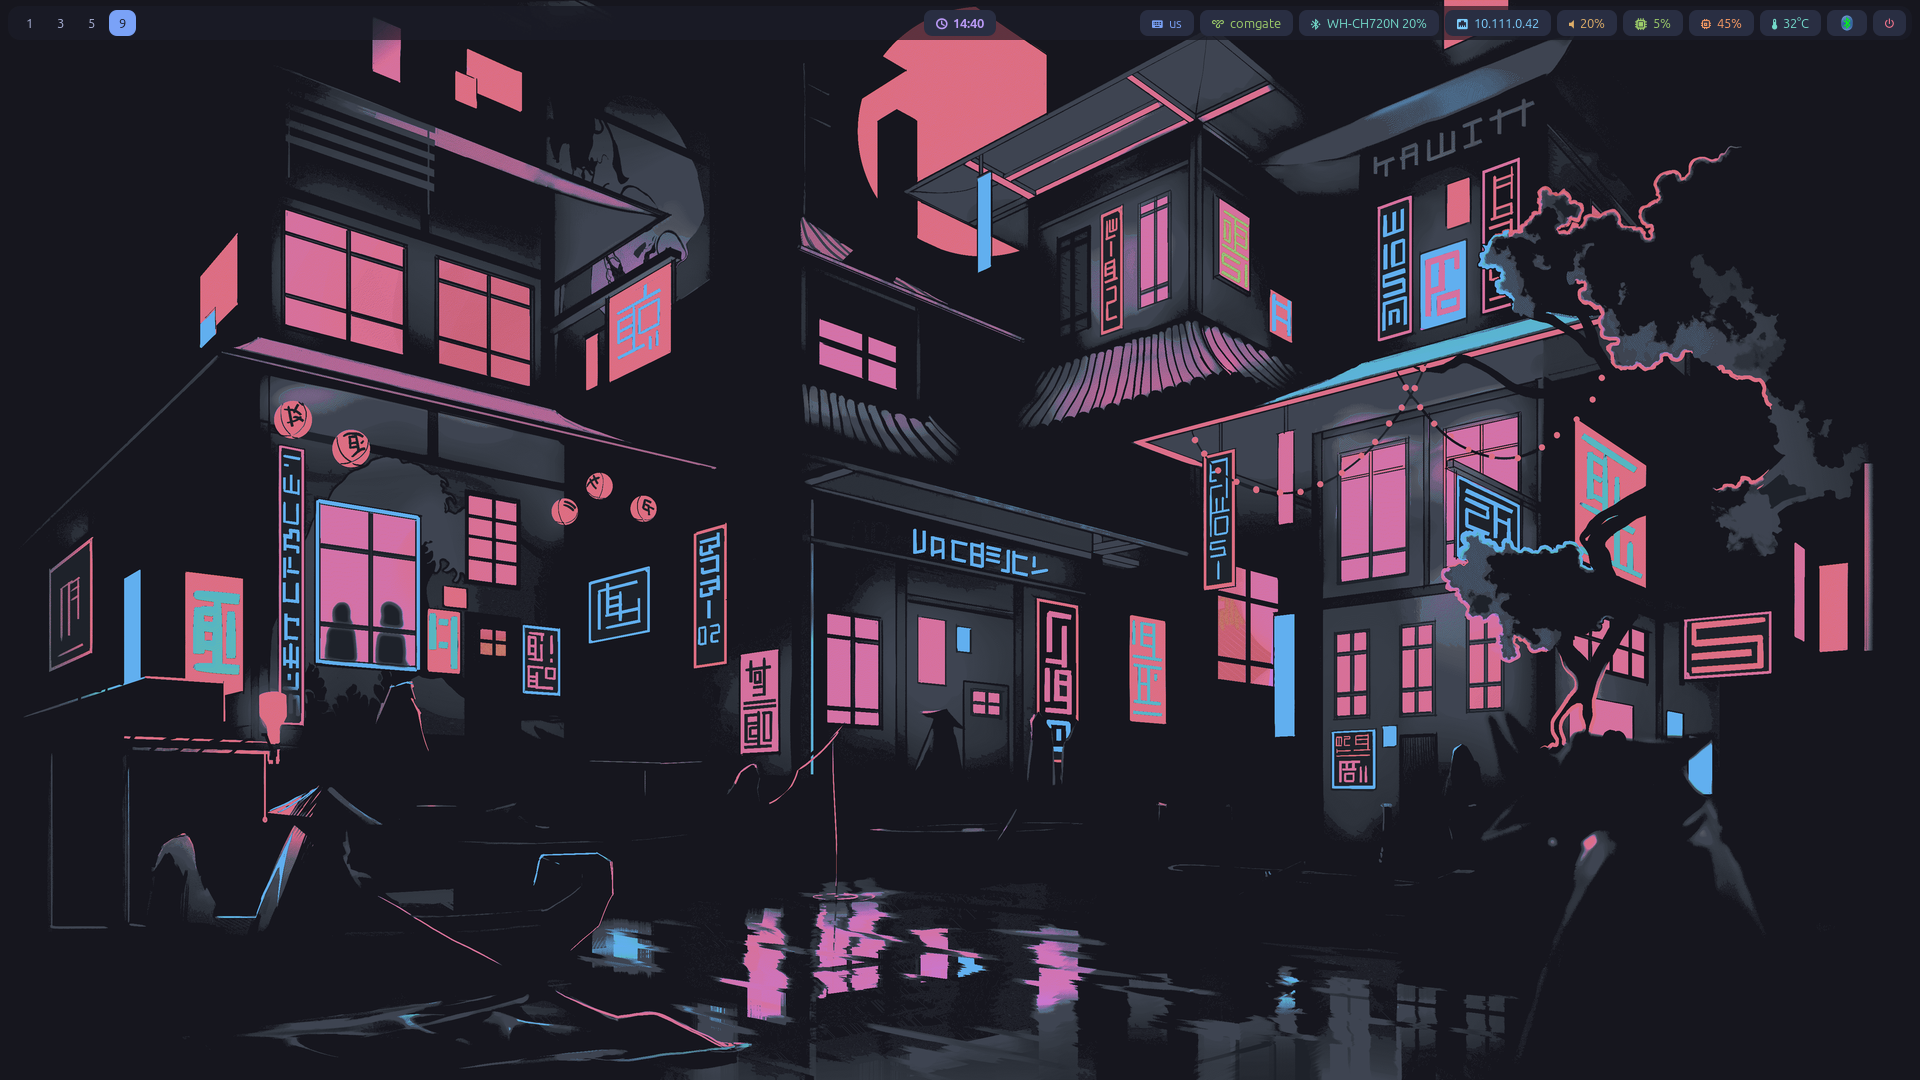
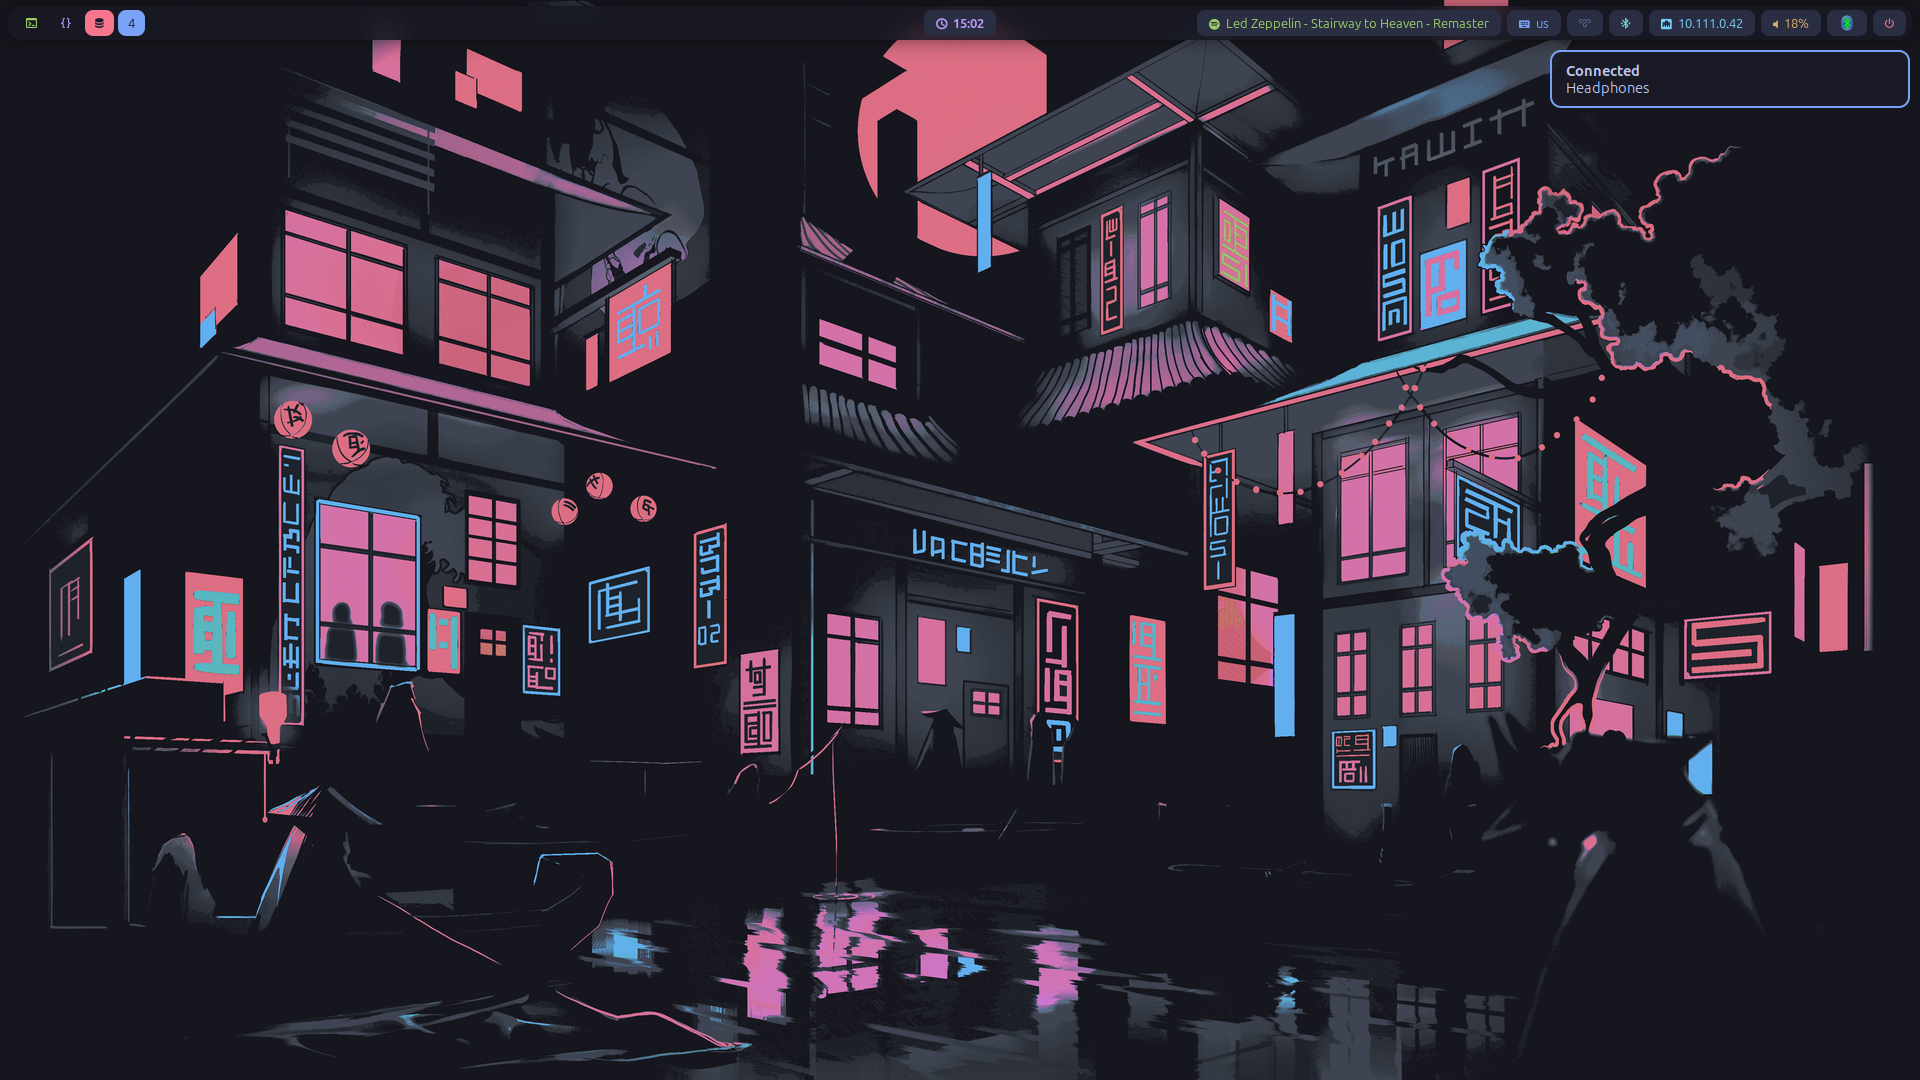
New README and screenshots

diff --git a/README.md b/README.md
@@ -1,12 +1,38 @@
-# sway Tokyo Night
+# sway-tokyo-night
 
-Tokyo Night theme for sway on Ubuntu: waybar, mako, fuzzel, foot, gtklock.
+![Tokyo Night sway desktop with a floating waybar and a mako notification](screenshots/desktop.png)
 
-![Desktop](screenshots/desktop.png)
-![Tiling](screenshots/tiling.png)
-![Launcher](screenshots/launcher.png)
+**Tokyo Night on sway for Ubuntu. Floating pill bar, every app themed, and each monitor gets its own workspace 1, 2, 3.**
+
+| | |
+|---|---|
+| **OS** | Ubuntu 26.04 |
+| **WM** | Sway 1.11 (screenshots taken on SwayFX, which is optional) |
+| **Bar** | waybar |
+| **Launcher / menus** | fuzzel |
+| **Terminal** | foot |
+| **Notifications** | mako |
+| **Lock screen** | gtklock (a themed swaylock config is included too) |
+| **Fonts** | Ubuntu + Symbols Nerd Font (the Nerd Font symbols are bundled in `fonts/`) |
+| **Wallpaper** | [alchem1no/tokyonight-wallpapers](https://github.com/alchem1no/tokyonight-wallpapers) |
+
+## Screenshots
+
+Three foot windows tiled: fastfetch, htop, and the git log of this repo.
+
+![Three tiled foot terminals running fastfetch, htop and git log](screenshots/tiling.png)
+
+`Super+d` opens fuzzel. Snap apps show up in the list too.
+
+![fuzzel app launcher over tiled windows](screenshots/launcher.png)
+
+`Super+Shift+e` (or the power button on the bar) opens the power menu.
+
+![fuzzel power menu with Lock, Logout, Reboot and Shutdown](screenshots/power-menu.png)
 
 ## Install
+
+Ubuntu only, the script uses apt.
 
 ```sh
 git clone https://github.com/SimonZanta/sway-tokyo-night.git
@@ -14,16 +40,133 @@ cd sway-tokyo-night
 ./install.sh
 ```
 
-The script installs the packages with apt and copies the configs into `~/.config`, overwriting existing ones.
+`install.sh` installs sway, swaybg, waybar, mako, fuzzel, foot, gtklock, swaylock, blueman, network-manager-gnome, pulseaudio-utils, playerctl, brightnessctl, grim, jq and the Ubuntu font. It then copies `config/` into `~/.config`, puts the Nerd Font symbols into `~/.local/share/fonts`, and reloads sway and mako if sway is already running.
 
-## Keys
+**It overwrites your existing configs** for those apps. No backup is made, so copy your `~/.config` folders somewhere first if you care about them.
 
-| Key | Action |
+## Things you need to change
+
+This is my actual setup, so a few bits are personal. After installing:
+
+| What | Where | Why |
+|---|---|---|
+| Autostart | `~/.config/sway/autostart.sh` | On login it opens two foot terminals, DBeaver, Google Chrome and Spotify (snap) and drops each one on its workspace. Edit it or delete it. |
+| Monitor names | `~/.config/sway/config` | Workspaces 1-3 of the left monitor are pinned to `HDMI-A-2`, the right monitor to `HDMI-A-1`. Run `swaymsg -t get_outputs` and put your own output names in. |
+| Keyboard layout | `~/.config/sway/config` | `us` + `cz` (qwerty), switched with `Alt+Shift`. Change `xkb_layout`. |
+
+## Workspaces per monitor
+
+This is the part I'd miss most on any other setup.
+
+Monitors are counted left to right, and `Super+1` takes you to workspace 1 **of the monitor you're on**. So the left screen has its own 1, 2, 3 and the right screen has its own 1, 2, 3. No more workspace 7 ending up on the wrong display.
+
+The first three on each monitor are fixed and get their own icon and colour in the bar:
+
+| | 1 | 2 | 3 |
+|---|---|---|---|
+| **Left monitor** | terminal (green) | code (purple) | database (yellow) |
+| **Right monitor** | web (blue) | music (teal) | document (orange) |
+
+Need more? `Super+t` opens the next free one (4, 5, ...) on the current monitor, and `Super+Shift+t` sends the focused window to a new one. When a workspace from 4 up closes, the rest renumber themselves so there are never gaps.
+
+Under the hood they're named like `21:1` (monitor 2, workspace 1), but the bar only shows the number or the icon.
+
+## The bar
+
+Floating waybar at the top, rounded and slightly see-through, with every module in its own pill.
+
+**Left**
+- **Workspaces**: icons and colours as above. Focused is a blue pill, urgent is red.
+- **Sway mode**: an orange pill when you're in a mode like resize.
+- **Window title**: the focused window, cut at 50 characters.
+
+**Centre**
+- **Clock**: `HH:MM`, click to flip to the date (`Mon 20.11.2026`), hover for a month calendar with week numbers and today in red.
+
+**Right**
+- **Spotify**: `artist - title` of what's playing, via playerctl. Spotify only.
+- **Keyboard layout**: `us` / `cz`, click to switch.
+- **VPN**: the active VPN name in green, or a dimmed icon when off. Left click opens nm-connection-editor. Right click disconnects the active VPN, or connects the first one set up in NetworkManager and asks for the password in a small floating foot window.
+- **Bluetooth**: the icon, or the connected device with its battery %. Hover lists connected devices, left click opens blueman-manager, right click turns Bluetooth on or off.
+- **Network**: IP on ethernet, SSID on wifi, red `offline` when there's nothing. Hover shows interface, IP/CIDR, gateway and live up/down speed. Click opens nm-connection-editor.
+- **Volume**: icon + %, switches to a headphone icon on headphones. Scroll for 5% steps, click to mute.
+- **Tray**: blueman applet and friends.
+- **Power**: same menu as `Super+Shift+e`.
+
+## Shortcuts
+
+`Super` is the Windows key.
+
+### Added by this setup
+
+| Keys | Does |
 |---|---|
+| `Super+d` | App launcher (fuzzel, includes snap apps) |
+| `Super+Shift+e` | Power menu: Lock, Logout, Reboot, Shutdown |
 | `Super+l` | Lock screen (gtklock) |
-| `Alt+Shift` | Switch keyboard layout (us / cz qwerty) |
-| Media keys | Play/pause, next, previous (playerctl) |
+| `Super+n` | Pick an action from a notification |
+| `Super+1` ... `Super+0` | Go to workspace N on this monitor |
+| `Super+Shift+1` ... `Super+Shift+0` | Move window to workspace N on this monitor |
+| `Super+t` | New workspace on this monitor |
+| `Super+Shift+t` | Move window to a new workspace |
+| `Super+PageUp` / `Super+PageDown` | Previous / next workspace |
+| `Super+Ctrl+Shift+Left` / `Right` | Focus the monitor to the left / right |
+| `Alt+Shift` | Switch keyboard layout (us / cz) |
+| `Print` | Full screenshot with grim (no notification) |
+| Media keys | Volume, mic mute, play/pause/next/prev/stop, brightness. These work on the lock screen too. |
+
+Heads up: **`Super+l` locks the screen instead of focusing right.** Use `Super+Right` to focus right. `Super+Shift+l` still moves the window right.
+
+### Standard sway keys (kept)
+
+| Keys | Does |
+|---|---|
+| `Super+Return` | Terminal (foot) |
+| `Super+Shift+q` | Close window |
+| `Super+h/j/k` or arrows | Move focus |
+| `Super+Shift+h/j/k/l` or arrows | Move window |
+| `Super+b` / `Super+v` | Split horizontal / vertical |
+| `Super+s` / `Super+w` / `Super+e` | Stacking / tabbed / toggle split |
+| `Super+f` | Fullscreen |
+| `Super+Shift+space` | Toggle floating |
+| `Super+space` | Switch focus between tiling and floating |
+| `Super+a` | Focus parent |
+| `Super+Shift+minus` / `Super+minus` | Send to / show scratchpad |
+| `Super+r` | Resize mode (h/j/k/l or arrows, Enter or Esc to leave) |
+| `Super+Shift+c` | Reload config |
+| `Super` + left drag / right drag | Move / resize window |
+
+## Notifications and lock screen
+
+**mako** sits top right: 360px wide, rounded, blue border, gone after 5 seconds. Critical ones get a red border and stay until you dismiss them. Blueman prompts that need an answer (pairing and so on) also stay put. `Super+n` lets you pick a notification action in fuzzel.
+
+**gtklock** gets the Tokyo Night background, a big 72px blue clock, a rounded password field and a blue unlock button.
+
+## SwayFX (optional)
+
+The screenshots are from [SwayFX](https://github.com/WillPower3309/swayfx). `install.sh` only installs plain sway, and everything works fine there. If you install SwayFX yourself, there's an extra config with blur, shadows, 10px rounded corners, animations and a blurred bar:
+
+```sh
+sway -c ~/.config/sway/config-fx
+```
+
+## Colours
+
+Straight Tokyo Night:
+
+| | |
+|---|---|
+| Background | `#1a1b26` |
+| Text | `#c0caf5` |
+| Blue | `#7aa2f7` |
+| Purple | `#bb9af7` |
+| Green | `#9ece6a` |
+| Yellow | `#e0af68` |
+| Red | `#f7768e` |
+| Teal | `#73daca` |
 
 ## Credits
 
-Wallpaper: [alchem1no/tokyonight-wallpapers](https://github.com/alchem1no/tokyonight-wallpapers) (Unlicense).
+Wallpaper from [alchem1no/tokyonight-wallpapers](https://github.com/alchem1no/tokyonight-wallpapers) (Unlicense). Colours from the Tokyo Night theme.
+
+If you end up using this, a star helps other people find it.
